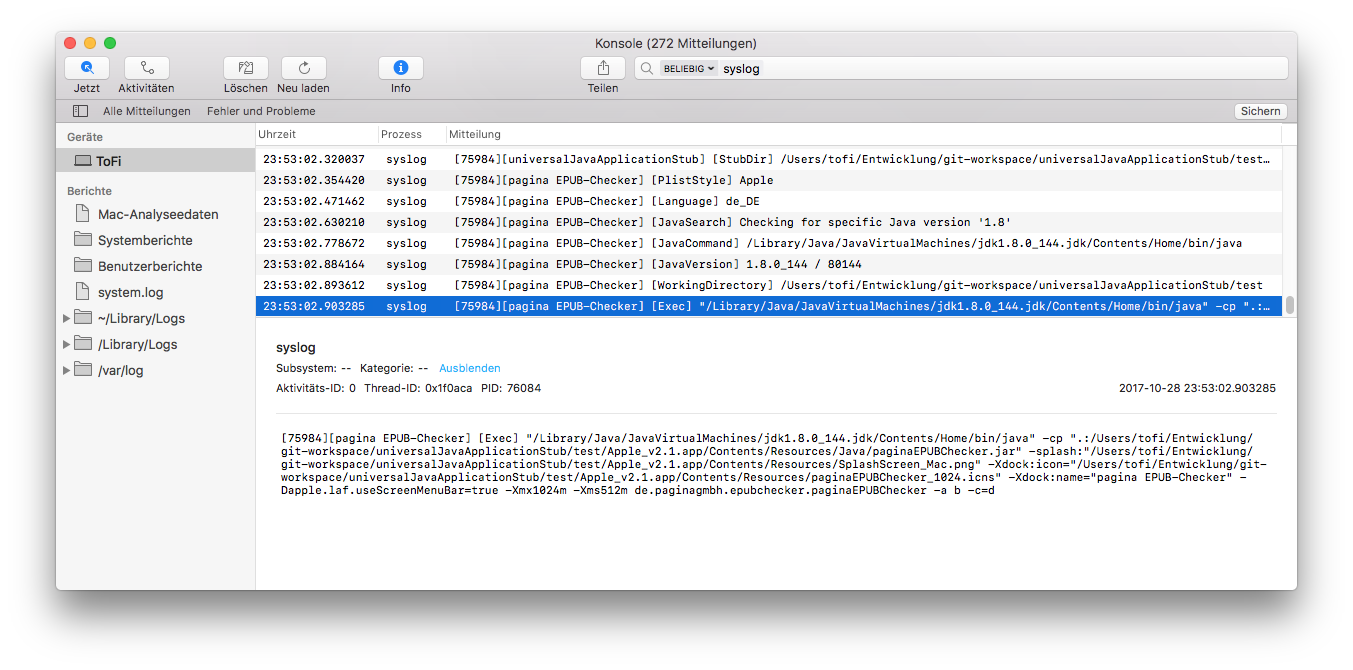
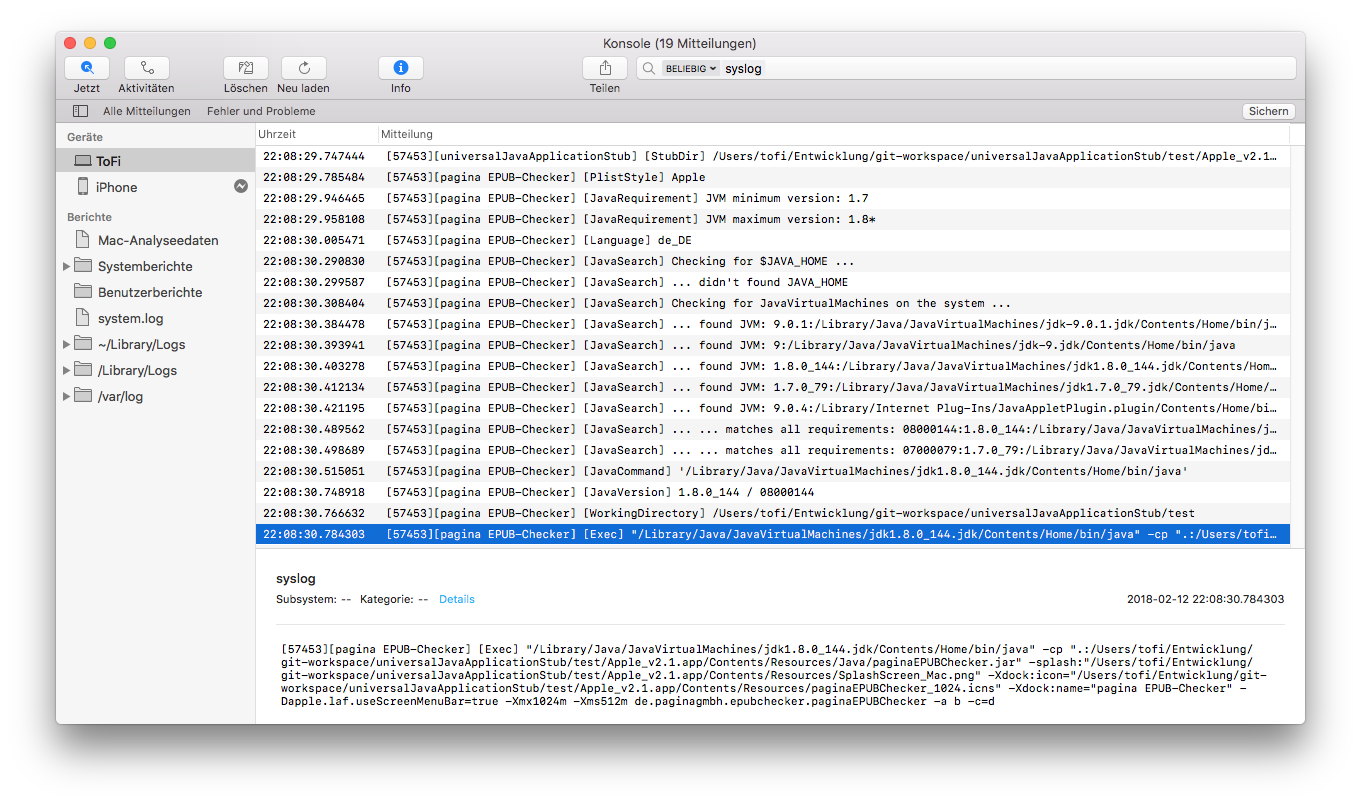
update README and console screenshot

Changed region(s): [[0.031, 0.0299, 0.9623, 0.7761], [0.031, 0.806, 0.9623, 0.9254]]

diff --git a/README.md b/README.md
@@ -9,38 +9,39 @@ A BASH based *JavaApplicationStub* for Java Apps on Mac OS X that works with bot
 Why
 ---
 
-Whilst developing some Java apps for Mac OS X I was facing the problem of supporting two different Java versions – the "older" Apple versions and the "newer" Oracle versions.
+Whilst developing some Java Apps for Mac OS X I was facing the problem of supporting two different kinds of Java versions – the old Apple versions and the new Oracle versions.
 
 **Is there some difference, you might ask?** Yes, there is!
 
 1. The installation directory differs:
-  * Apple Java 1.5/1.6: `/System/Library/Java/JavaVirtualMachines/`
+  * Apple Java 1.5/1.6: `/System/Library/Java/JavaVirtualMachines/` or `/Library/Java/Home/bin/java`
   * Oracle JRE 1.7/1.8: `/Library/Internet Plug-Ins/JavaAppletPlugin.plugin/Contents/`
   * Oracle JDK 1.7/1.8: `/System/Library/Java/JavaVirtualMachines/`
 
 2. Mac Apps built with tools designed for Apple's Java (like Apple's *JarBundler* or the OpenSource [ANT task "Jarbundler"](https://github.com/UltraMixer/JarBundler)) won't work on Macs with Oracle Java 7 and no Apple Java installed.
-  * This is because Apple's `JavaApplicationStub` only works for Apple's Java and their style to store Java properties in the `Info.plist` file.
-  * To support Oracle Java 7 you would need to built a separate App package with [Oracles ANT task "Appbundler"](https://java.net/projects/appbundler).
-  * Thus you would need the user to know which Java distribution he has installed on his Mac. Not very user friendly...
+  * This is because Apple's `JavaApplicationStub` only works for Apple's Java and their *style* to store Java properties in the `Info.plist` file.
+  * To support Oracle Java 7 you would need to built a separate App package with [Oracle's ANT task "Appbundler"](https://java.net/projects/appbundler).
+  * Thus you would need the user to know which Java distribution he has installed on their Mac. Not very user friendly...
 
-3. Oracle uses a different syntax to store Java properties in the applications `Info.plist` file. A Java app packaged as a Mac app with Oracles Appbundler also needs a different `JavaApplicationStub` and therefore won't work on systems with Apple's Java...
+3. Oracle uses a different syntax to store Java properties in the applications `Info.plist` file. A Java Application packaged as a Mac App with Oracle's Appbundler also needs a different `JavaApplicationStub` and therefore won't work on systems with Apple's old Java...
 
 4. Starting with Mac OS X 10.10 *(Yosemite)*, Java Apps won't open anymore if they contain the *deprecated* Plist dictionary `Java`. This isn't confirmed by Apple, but [issue #9](https://github.com/tofi86/universalJavaApplicationStub/issues/9) leads to this assumption:
-  * Apple seems to declare the `Java` dictionary as *deprecated* and ties it to the old Apple Java 6. If you have a newer version installed the app won't open.
+  * Apple seems to declare the `Java` dictionary as *deprecated* and ties it to their old Apple Java 6. If you have a newer Oracle Java version installed the app won't open.
   * If Java 7/8 is installed, Apple doesn't accept those java versions as suitable
   * Apple prompts for JRE 6 download even before the `JavaApplicationStub` is executed. This is why we can't intercept at this level and need to replace the `Java` dictionary by a `JavaX` dictionary key.
   * This requires to use the latest [JarBundler](https://github.com/UltraMixer/JarBundler/) version (see below for more details)
 
-*So why, oh why, couldn't Oracle just use the old style of storing Java properties in `Info.plist` and offer a universal JavaApplicationStub?!* :rage:
+TL;DR: Since there is no universally working JavaApplicationStub for Java 6, 7 and above, and because Apple and Oracle really screwed things up during their Java transition phase, I was in need of a new Stub file.
+And well, since I can't write such a script in C, C# or whatever fancy language, I wrote it as a Bash script. And it works!
+The original script was inspired by [Ian Roberts stackoverflow answer](http://stackoverflow.com/a/17546508/1128689). Thanks, Ian!
 
-Well, since I can't write such a script in C, C# or whatever fancy language, I wrote it as a Shell script. And it works!
 
 How the script works
 --------------------
 
-You don't need a native `JavaApplicationStub` file anymore. The Shell script needs to be executable – that's all.
+You don't need a native `JavaApplicationStub` file anymore. The Bash script needs to be executable – that's all.
 
-The script reads JVM properties from `Info.plist` regardless of whether it's Apple or Oracle style and feeds them to a commandline `java` call like the following:
+The script reads JVM properties from `Info.plist` regardless of whether it's Apple or Oracle syntax and feeds them to a commandline `java` call like the following:
 
 ```Bash
 # execute Java and set
@@ -65,9 +66,9 @@ exec "${JAVACMD}" \
     ${ArgsPassthru:+ $ArgsPassthru}
 ```
 
-It sets the classpath, the dock icon, the *AboutMenuName* (in Xdock style) and then every *JVMOptions*, *JVMDefaultOptions* or *JVMArguments* found in the `Info.plist` file.
+It sets the classpath, the dock icon, the *AboutMenuName* (as Xdock parameter) and then every *JVMOptions*, *JVMDefaultOptions* or *JVMArguments* found in the `Info.plist` file. See the table below for more supported Plist keys.
 
-The WorkingDirectory is either retrieved from Apple's Plist key `Java/WorkingDirectory` or set to the JavaRoot directory within the app bundle.
+The *WorkingDirectory* is either retrieved from Apple's Plist key `Java/WorkingDirectory` or set to the JavaRoot directory within the app bundle.
 
 The name of the *main class* is also retrieved from `Info.plist`. If no *main class* is found, an AppleScript error dialog is shown and the script exits with *exit code 1*.
 
@@ -80,14 +81,16 @@ There is some *foo* happening to determine which Java versions are installed –
   * `/usr/libexec/java_home` symlinks
   * Oracle's JRE Plugin: `/Library/Internet Plug-Ins/JavaAppletPlugin.plugin/Contents/Home/bin/java`
   * Symlink for old Apple Java: `/Library/Java/Home/bin/java`
-3. If you require a specific Java version with the Plist key `JVMVersion` the script will try to find a matching JDK or JRE in all of the above locations
+3. If you require a specific to-the-point Java version or a **minimum requirement** with the Plist key `JVMVersion` the script will try to find a matching JDK or JRE in all of the above locations
   * if multiple matching JVM's are found, the script will pick the latest (highest version number)
+  * starting from version 3.0 of this script you can use a special syntax in Plist key `JVMVersion` to specify a **max requirement**. See [issue #51](https://github.com/tofi86/universalJavaApplicationStub/issues/51) for examples.
 
-If none of these could be found or executed the script shows an AppleScript error dialog saying that Java needs to be installed:
+If none of these can be found or executed the script shows an AppleScript error dialog saying that Java needs to be installed:
 
 ![Error Dialog No Java Found](/docs/java-error.png?raw=true)
 
-Messages are localized and displayed either in English (Default), French or German. Language contributions are very welcome!
+Messages are **localized** and displayed either in English (Default), French, German or Chinese. Language contributions are very welcome! Thank you!
+
 
 What you need to do
 -------------------
@@ -119,7 +122,7 @@ Then place the `universalJavaApplicationStub` from this repo in your build resou
 </jarbundler>
 ```
 
-The ANT task will care about the rest...
+The ANT task will take care of all the rest... But of course you can specify more options. Please check the JarBundler docs.
 
 You should get a fully functional Mac Application Bundle working with both Java distributions from Apple and Oracle and all Mac OS X versions.
 
@@ -136,11 +139,9 @@ Just place the `universalJavaApplicationStub` from this repo in your build resou
 </appbundler>
 ```
 
-
-The ANT task will care about the rest...
+The ANT task will take care of all the rest... But of course you can specify more options. Please check the Appbundler docs.
 
 You should get a fully functional Mac Application Bundle working with both Java distributions from Apple and Oracle and all Mac OS X versions.
-
 
 
 Supported PList keys
@@ -150,7 +151,7 @@ Supported PList keys
 |---------------------------------|------------------------|-----------------------|
 | **App Name** (Dock Name)        | `:CFBundleName`        | `:CFBundleName`       |
 | **App Icon** (Dock Icon)        | `:CFBundleIconFile`    | `:CFBundleIconFile`   |
-| **Working Directory**           | `:Java(X):WorkingDirectory`<br/>fallback to `name.app/` | *not supported*<br/>default: `name.app/Contents/Java/` |
+| **Working Directory**           | `:Java(X):WorkingDirectory`<br/>fallback to `name.app/`<br/>support for variables `$APP_PACKAGE`, `$JAVAROOT`, `$USER_HOME` | *not supported*<br/>default: `name.app/Contents/Java/` |
 | **Java Min/Max[*](https://github.com/tofi86/universalJavaApplicationStub/issues/51) Version Requirement** | `:Java(X):JVMVersion`  | *not supported*       |
 | **Java ClassPath** (`-cp …`)    | `:Java(X):ClassPath`   | `:JVMClassPath`       |
 | **Java Main Class**             | `:Java(X):MainClass`   | `:JVMMainClassName`   |
@@ -161,14 +162,14 @@ Supported PList keys
 | **Main Class Arguments**        | `:Java(X):Arguments`   | `:JVMArguments`       |
 
 
-
 Logging
 -------
 
-Starting with version 2.2.0 `universalJavaApplicationStub` logs data to the `syslog` which can be easily accessed with the `Console.app` utility by searching for *syslog*:
+Starting with version 3.0 `universalJavaApplicationStub` logs data to the `syslog` facility which can be easily accessed with the `Console.app` utility by searching for *syslog*:
 
 ![Example log data in Console.app](/docs/ConsoleAppLogging.png?raw=true)
 
+Log data includes debug information of the JVM search strategy, App name, language, selected JVM, WorkingDirectory and exec call.
 
 
 Missing Features
